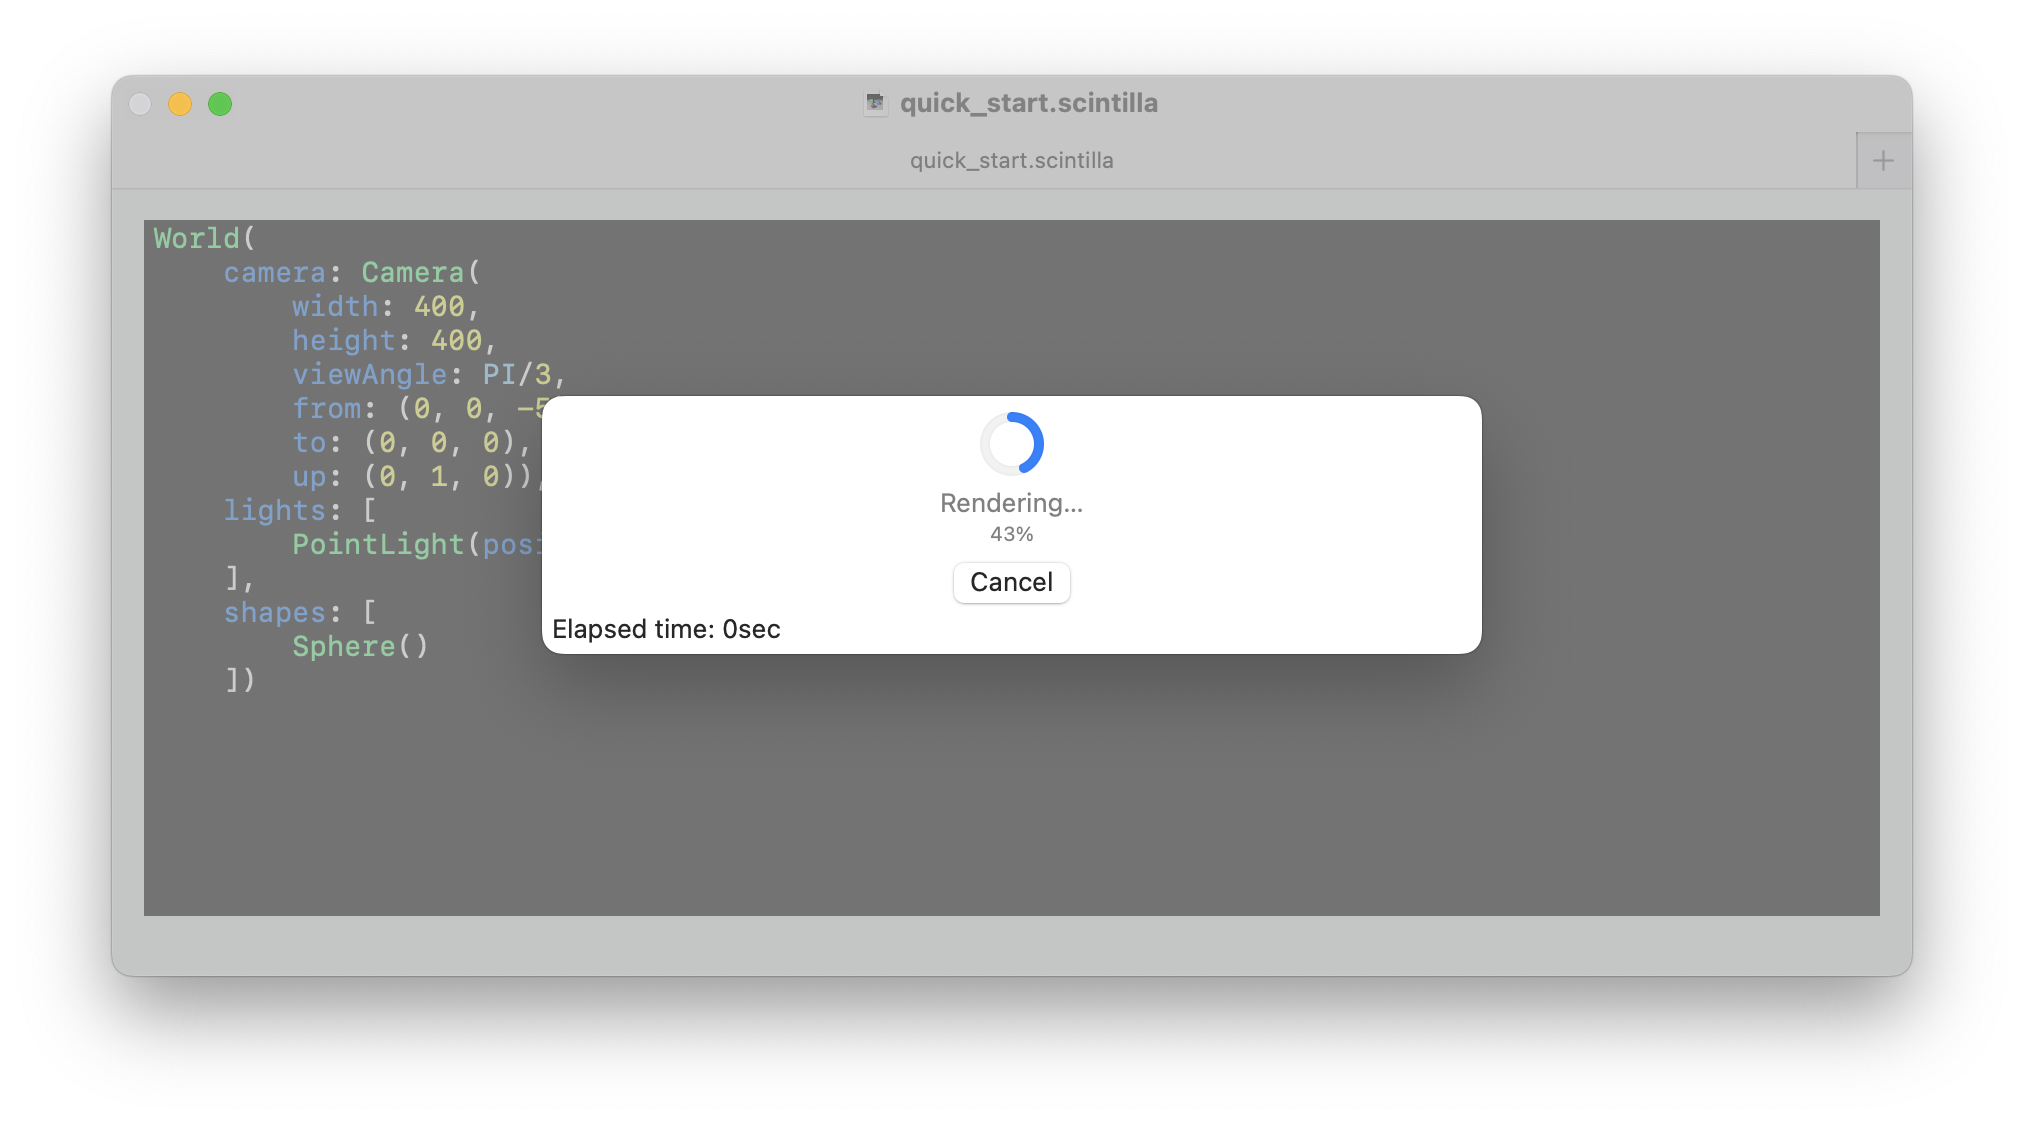
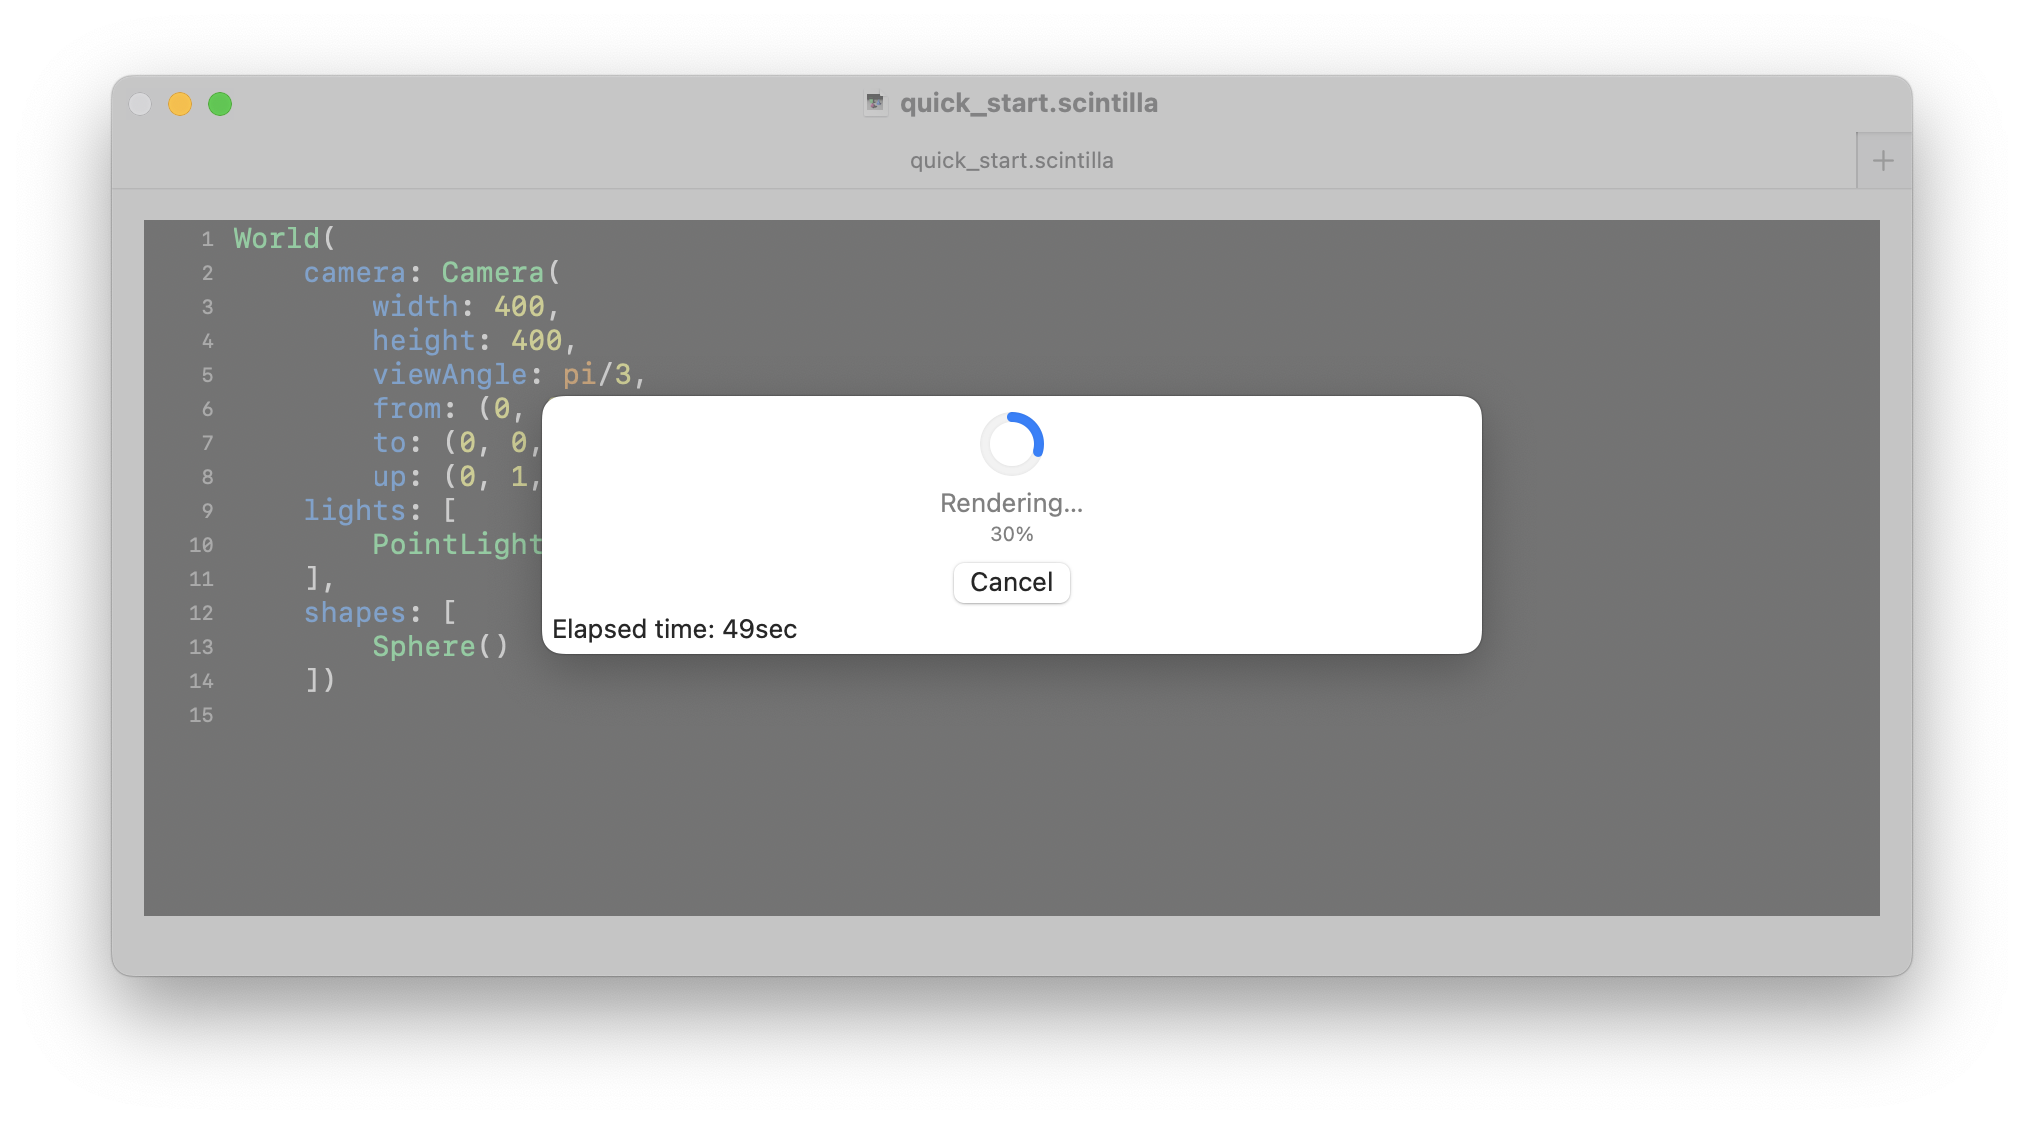
Updated README.

diff --git a/README.md b/README.md
@@ -1019,4 +1019,6 @@ It's not a huge gain in this example but if you are constructing scenes with man
 * Building a text view with syntax highlighting in SwiftUI  
   [https://medium.com/@orhanerday/building-a-swiftui-code-block-view-with-syntax-highlighting-d3d737a90a65](https://medium.com/@orhanerday/building-a-swiftui-code-block-view-with-syntax-highlighting-d3d737a90a65)
 * Apple forums thread on how to use a coordinator with a text view  
-  [https://forums.developer.apple.com/forums/thread/125920](https://forums.developer.apple.com/forums/thread/125920)  
+  [https://forums.developer.apple.com/forums/thread/125920](https://forums.developer.apple.com/forums/thread/125920)
+* GitHub repo for example project using `NSRulerView` for displaying line numbers  
+  [https://github.com/yichizhang/NSTextView-LineNumberView](https://github.com/yichizhang/NSTextView-LineNumberView)
